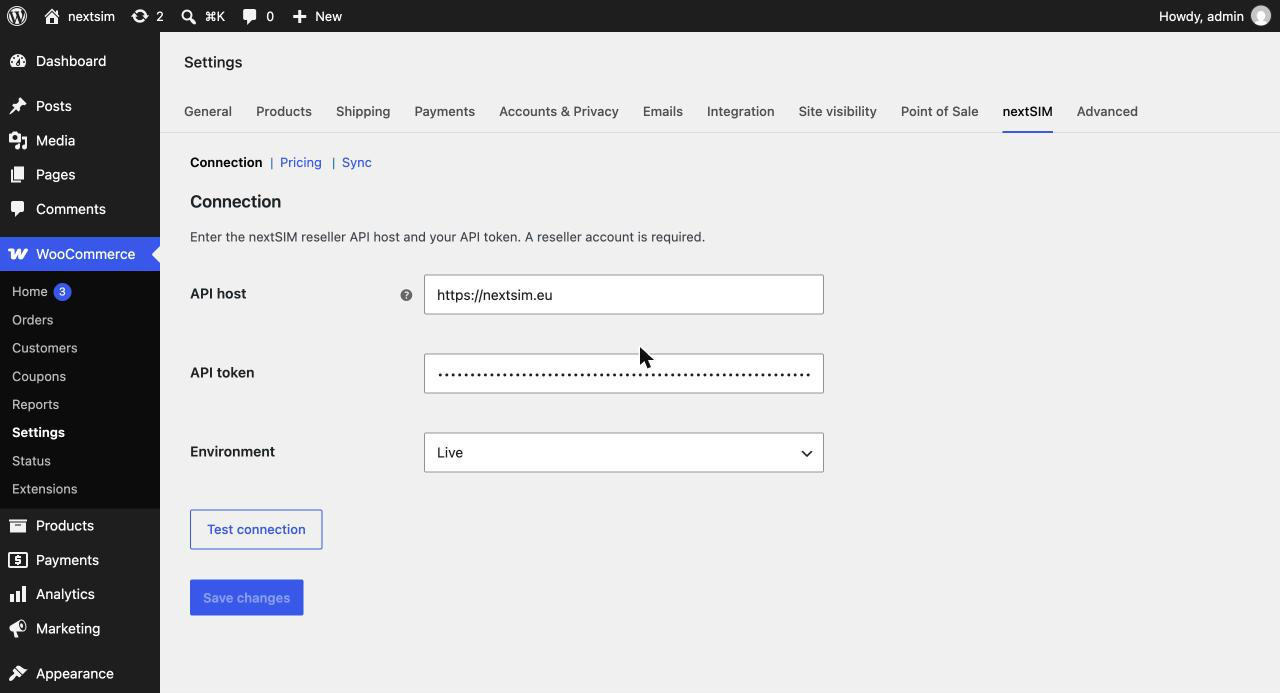
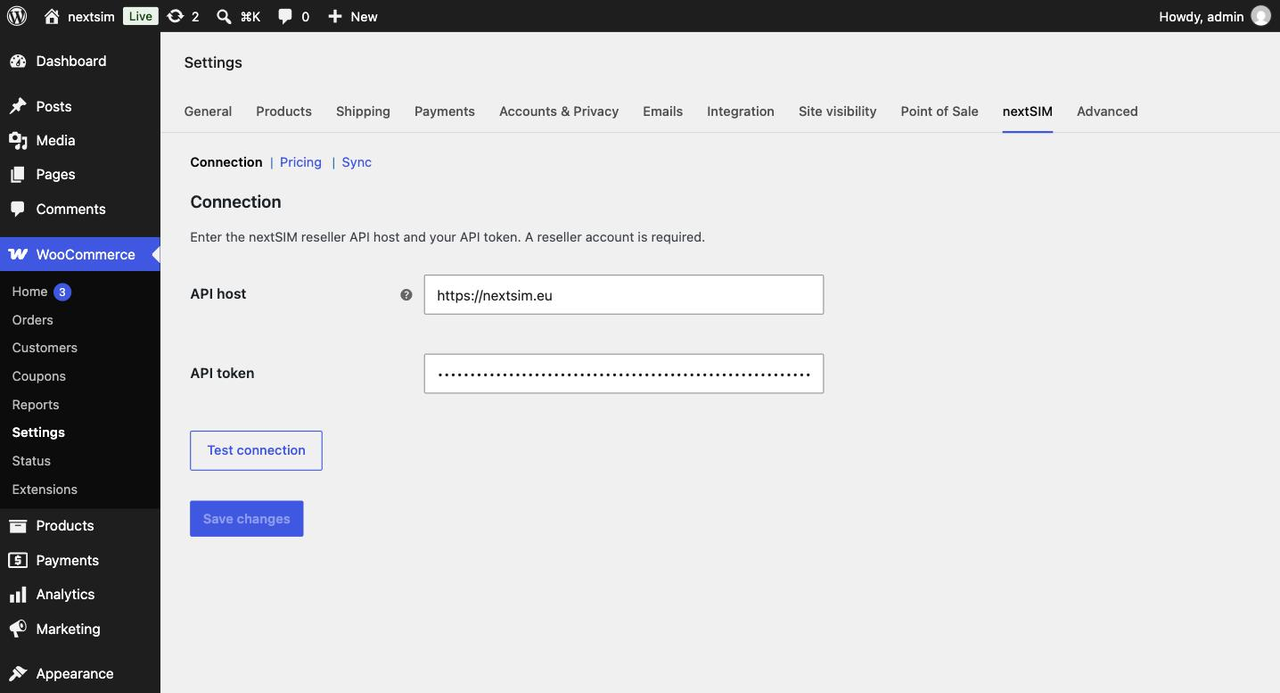
Remove the unused Environment setting
Resellers only ever have a live account, and nothing in the plugin read the
option anyway. Drop it from the Connection tab, activation defaults and
uninstall cleanup; regenerate the POT and retake the first screenshot.

diff --git a/includes/class-settings.php b/includes/class-settings.php
@@ -18,7 +18,6 @@ final class Settings {
 
 	public const OPT_API_HOST            = 'nextsim_woo_api_host';
 	public const OPT_API_TOKEN           = 'nextsim_woo_api_token';
-	public const OPT_ENVIRONMENT         = 'nextsim_woo_environment';
 	public const OPT_MARKUP_PERCENT      = 'nextsim_woo_markup_percent';
 	public const OPT_DEFAULT_PRICE_MODE  = 'nextsim_woo_default_price_mode';
 	public const OPT_CATEGORY_MARKUP     = 'nextsim_woo_category_markup';
@@ -37,9 +36,6 @@ final class Settings {
 	public const EXCHANGE_FIXED = 'fixed';
 	public const EXCHANGE_OFF   = 'off';
 
-	public const ENV_LIVE = 'live';
-	public const ENV_TEST = 'test';
-
 	public function api_host(): string {
 		$host = (string) get_option( self::OPT_API_HOST, 'https://nextsim.eu' );
 
@@ -48,10 +44,6 @@ final class Settings {
 
 	public function api_token(): string {
 		return (string) get_option( self::OPT_API_TOKEN, '' );
-	}
-
-	public function environment(): string {
-		return self::ENV_TEST === get_option( self::OPT_ENVIRONMENT ) ? self::ENV_TEST : self::ENV_LIVE;
 	}
 
 	public function is_configured(): bool {

diff --git a/includes/admin/class-settings-page.php b/includes/admin/class-settings-page.php
@@ -194,16 +194,6 @@ class Settings_Page {
 				'type'  => 'password',
 			),
 			array(
-				'title'   => __( 'Environment', 'nextsim-woo' ),
-				'id'      => Settings::OPT_ENVIRONMENT,
-				'type'    => 'select',
-				'default' => Settings::ENV_LIVE,
-				'options' => array(
-					Settings::ENV_LIVE => __( 'Live', 'nextsim-woo' ),
-					Settings::ENV_TEST => __( 'Test', 'nextsim-woo' ),
-				),
-			),
-			array(
 				'type' => 'sectionend',
 				'id'   => 'nextsim_woo_connection',
 			),

diff --git a/includes/class-activator.php b/includes/class-activator.php
@@ -15,7 +15,6 @@ final class Activator {
 
 	public static function activate(): void {
 		add_option( Settings::OPT_API_HOST, 'https://nextsim.eu' );
-		add_option( Settings::OPT_ENVIRONMENT, Settings::ENV_LIVE );
 		add_option( Settings::OPT_MARKUP_PERCENT, 0 );
 		add_option( Settings::OPT_DEFAULT_PRICE_MODE, Settings::PRICE_MODE_AUTO );
 		add_option( Settings::OPT_SYNC_INTERVAL, 'daily' );

diff --git a/uninstall.php b/uninstall.php
@@ -14,7 +14,6 @@ defined( 'WP_UNINSTALL_PLUGIN' ) || exit;
 $nextsim_woo_options = array(
 	'nextsim_woo_api_host',
 	'nextsim_woo_api_token',
-	'nextsim_woo_environment',
 	'nextsim_woo_markup_percent',
 	'nextsim_woo_default_price_mode',
 	'nextsim_woo_category_markup',
